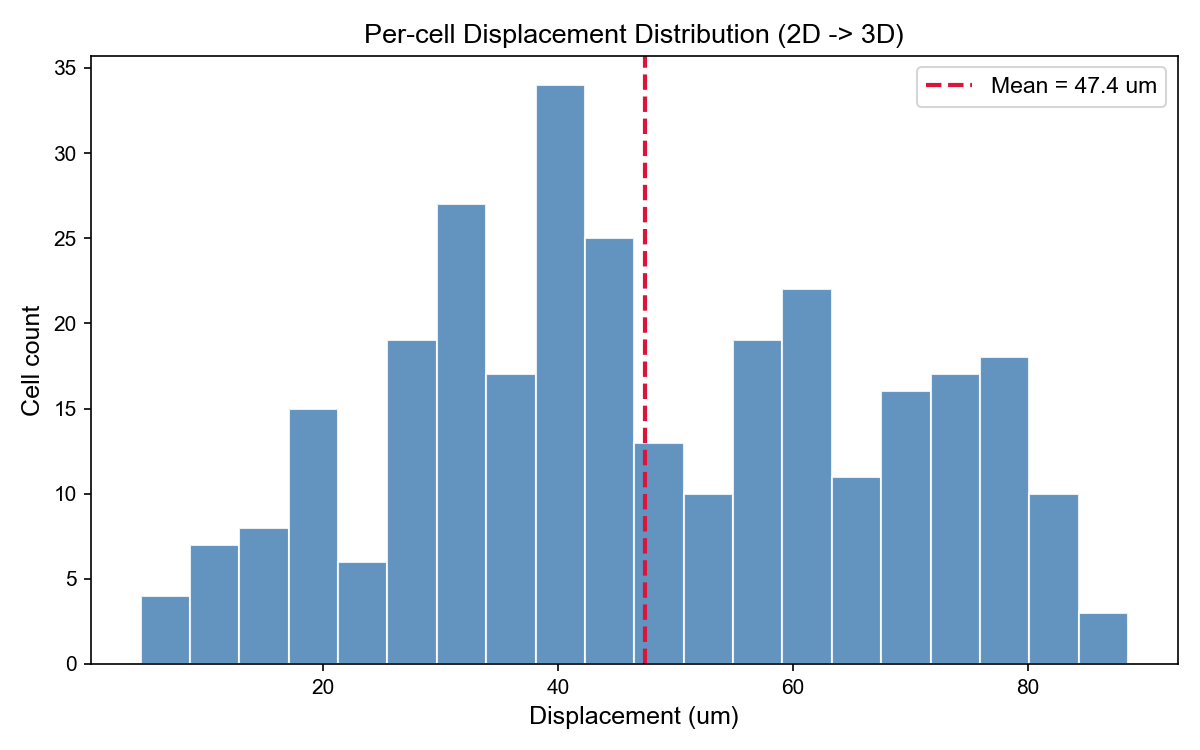
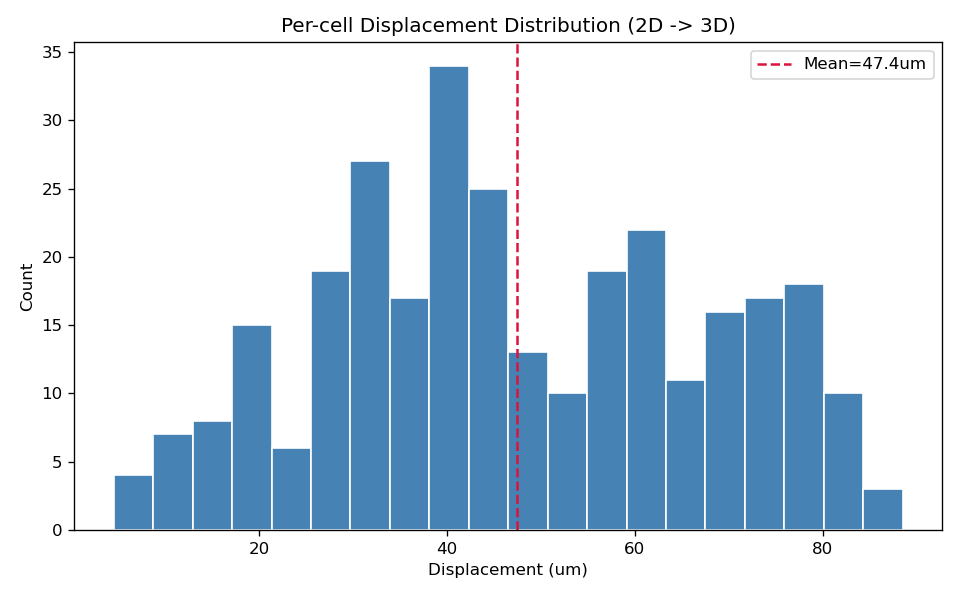
简单散点图重建: 2D/3D/位移 全部重画

diff --git a/docs/gcd_analysis.md b/docs/gcd_analysis.md
@@ -31,9 +31,7 @@
 | Die 0（底） | 142 | 40% |
 | Die 1（顶） | 213 | 60% |
 
-![3D Bottom Die](../figures/gcd_3d_bottom.png)
-
-![3D Top Die](../figures/gcd_3d_top.png)
+![3D Bottom vs Top Die](../figures/gcd_3d_dies.png)
 
 ---
 
